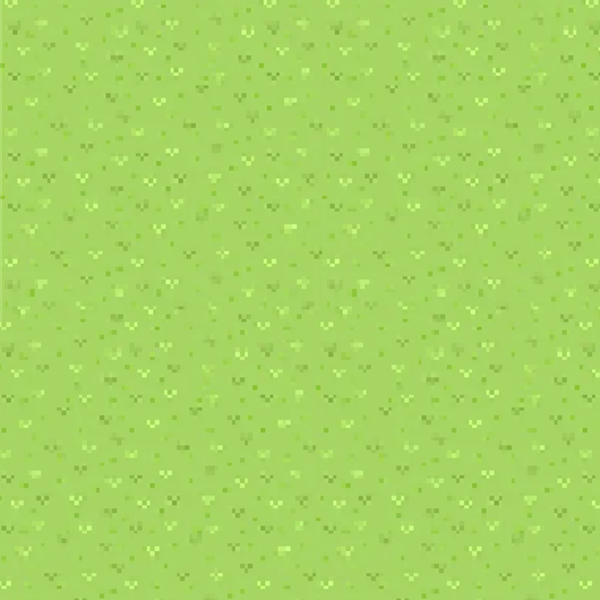
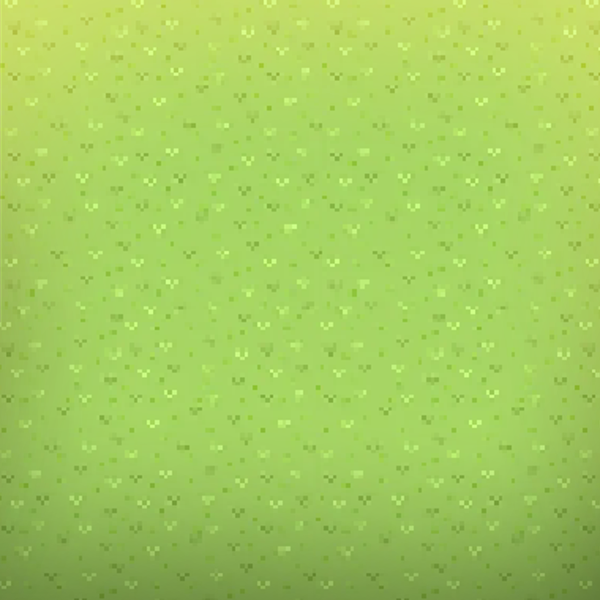
css

Changed region(s): [[0.0, 0.42, 1.0, 1.0], [0.0, 0.0, 1.0, 0.15], [0.99, 0.6, 1.0, 0.63]]

diff --git a/src/main/resources/snake/snake_game/style.css b/src/main/resources/snake/snake_game/style.css
@@ -1,0 +1,10 @@
+@font-face
+{
+    src: url('PublicPixel-0W6DP.ttf');
+}
+
+.font
+{
+    -fx-font-family: "Public Pixel";
+    -fx-font-size: 30;
+}

diff --git a/src/main/java/snake/snake_game/LeaderboardController.java b/src/main/java/snake/snake_game/LeaderboardController.java
@@ -7,7 +7,10 @@ import javafx.fxml.Initializable;
 import javafx.scene.control.TableColumn;
 import javafx.scene.control.TableView;
 import javafx.scene.control.cell.PropertyValueFactory;
+import javafx.scene.image.Image;
+import javafx.scene.layout.*;
 
+import java.io.File;
 import java.io.IOException;
 import java.net.URL;
 import java.util.Comparator;
@@ -27,6 +30,8 @@ public class LeaderboardController implements Initializable
     private final Scanner SC = new Scanner(Leaderboard.FILE);
 
     @FXML
+    private AnchorPane anchorPane;
+    @FXML
     private TableView<Leaderboard> table;
     @FXML
     private TableColumn<Leaderboard, String> date;
@@ -42,6 +47,12 @@ public class LeaderboardController implements Initializable
     @Override
     public void initialize(URL url, ResourceBundle resourceBundle)
     {
+        anchorPane.setBackground(new Background(new BackgroundImage(new Image(new File(
+                "src/main/java/snake/snake_game/images/gridbg.png").toURI().toString()),
+                BackgroundRepeat.NO_REPEAT,
+                BackgroundRepeat.NO_REPEAT,
+                BackgroundPosition.DEFAULT,
+                BackgroundSize.DEFAULT)));
         // Load leaderboard
         while (SC.hasNext() && !SC.next().isEmpty())
         {

diff --git a/src/main/java/snake/snake_game/NewGameController.java b/src/main/java/snake/snake_game/NewGameController.java
@@ -5,12 +5,17 @@ import javafx.fxml.Initializable;
 import javafx.scene.control.Button;
 import javafx.scene.control.CheckBox;
 import javafx.scene.control.TextField;
+import javafx.scene.image.Image;
+import javafx.scene.layout.*;
 
+import java.io.File;
 import java.net.URL;
 import java.util.ResourceBundle;
 
 public class NewGameController implements Initializable
 {
+    @FXML
+    private AnchorPane anchorPane;
     @FXML
     private CheckBox cursedCheck;
     @FXML
@@ -21,6 +26,12 @@ public class NewGameController implements Initializable
     @Override
     public void initialize(URL url, ResourceBundle resourceBundle)
     {
+        anchorPane.setBackground(new Background(new BackgroundImage(new Image(new File(
+                "src/main/java/snake/snake_game/images/gridbg.png").toURI().toString()),
+                BackgroundRepeat.NO_REPEAT,
+                BackgroundRepeat.NO_REPEAT,
+                BackgroundPosition.DEFAULT,
+                BackgroundSize.DEFAULT)));
         GameController.cursed = false;
         startBtn.setDisable(true);
         setTextListener();

diff --git a/src/main/java/snake/snake_game/GameOverController.java b/src/main/java/snake/snake_game/GameOverController.java
@@ -2,6 +2,8 @@ package snake.snake_game;
 
 import javafx.fxml.FXML;
 import javafx.fxml.Initializable;
+import javafx.scene.image.Image;
+import javafx.scene.layout.*;
 import javafx.scene.text.Text;
 
 import java.io.File;
@@ -14,11 +16,19 @@ import java.util.Scanner;
 public class GameOverController implements Initializable
 {
     @FXML
+    private AnchorPane anchorPane;
+    @FXML
     Text scoreText;
 
     @Override
     public void initialize(URL url, ResourceBundle resourceBundle)
     {
+        anchorPane.setBackground(new Background(new BackgroundImage(new Image(new File(
+                "src/main/java/snake/snake_game/images/gridbg.png").toURI().toString()),
+                BackgroundRepeat.NO_REPEAT,
+                BackgroundRepeat.NO_REPEAT,
+                BackgroundPosition.DEFAULT,
+                BackgroundSize.DEFAULT)));
         scoreText.setText(String.valueOf(GameController.score));
     }
 

diff --git a/src/main/java/snake/snake_game/GameController.java b/src/main/java/snake/snake_game/GameController.java
@@ -106,9 +106,9 @@ public class GameController implements Initializable
                             {
                                 try {speedReset.stop();} catch (Exception ignored){}
                                 // Speed up
-                                gameTick.setRate(gameTick.getRate()* SPEED_MULTIPLIER);
-                                // Normal speed after 5 seconds
-                                speedReset = new Timeline(new KeyFrame(Duration.seconds(5), sr -> gameTick.setRate(1)));
+                                gameTick.setRate(gameTick.getRate() * SPEED_MULTIPLIER);
+                                // Normal speed after 3 seconds
+                                speedReset = new Timeline(new KeyFrame(Duration.seconds(3), sr -> gameTick.setRate(1)));
                                 speedReset.play();
                             }
                     // TODO: Increase head hit-box

diff --git a/src/main/java/snake/snake_game/MenuController.java b/src/main/java/snake/snake_game/MenuController.java
@@ -1,9 +1,30 @@
 package snake.snake_game;
 
 import javafx.fxml.FXML;
+import javafx.fxml.Initializable;
+import javafx.scene.image.Image;
+import javafx.scene.layout.*;
 
-public class MenuController
+import java.io.File;
+import java.net.URL;
+import java.util.ResourceBundle;
+
+public class MenuController implements Initializable
 {
+    @FXML
+    private GridPane gridPane;
+
+    @Override
+    public void initialize(URL url, ResourceBundle resourceBundle)
+    {
+        gridPane.setBackground(new Background(new BackgroundImage(new Image(new File(
+                "src/main/java/snake/snake_game/images/gridbg.png").toURI().toString()),
+                BackgroundRepeat.NO_REPEAT,
+                BackgroundRepeat.NO_REPEAT,
+                BackgroundPosition.DEFAULT,
+                BackgroundSize.DEFAULT)));
+    }
+
     @FXML
     private void switchToNewGame()
     {
